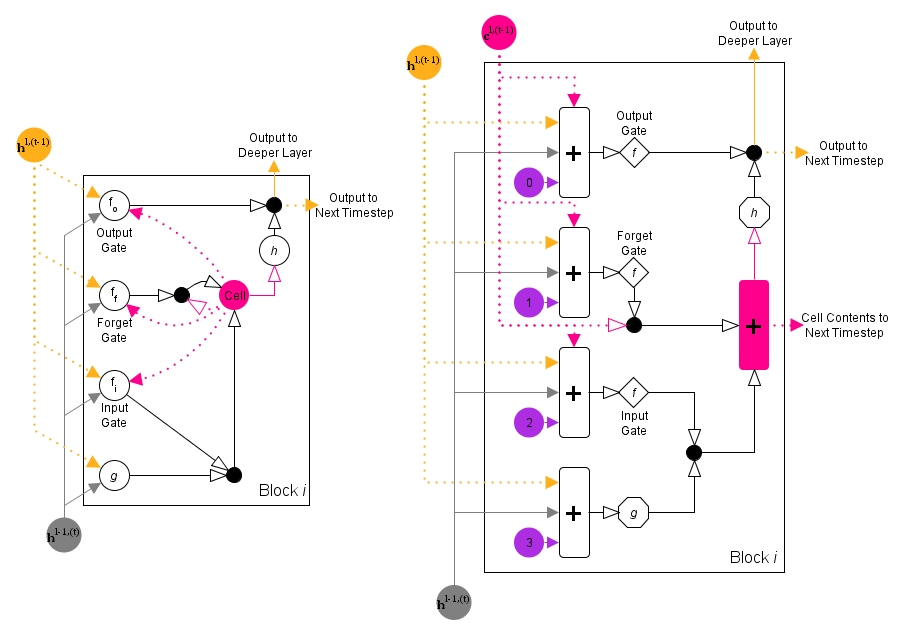
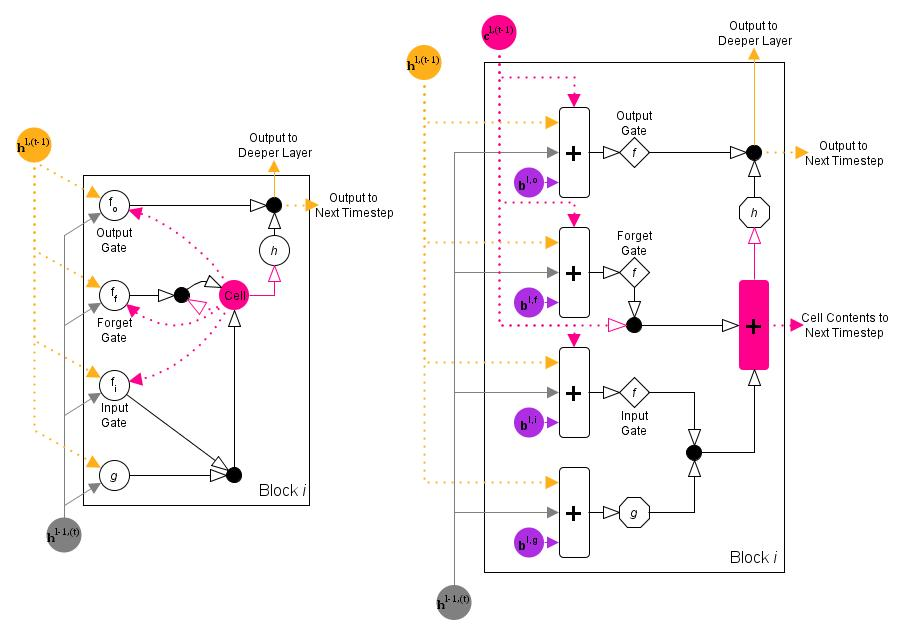
Tidied up typos

diff --git a/RNN/AlternativeNeurons.html b/RNN/AlternativeNeurons.html
@@ -26,7 +26,7 @@
             </p>
             <figure>
                 <img src="../Images/RNN/FigureLegend.jpg">
-                <figcaption><b>Stuff Stuff Stuff Stuff.</b></figcaption>
+                <figcaption><b>Legend for RNN Figures with Non-standard Recurrent Activation Functions.</b></figcaption>
             </figure>
         </section>
         <section>
@@ -111,13 +111,13 @@
                         \mathbf{f}^{l,(t)} & = f_f(W^{l,f} \mathbf{h}^{l-1,(t)} + R^{l,f} \mathbf{h}^{l,(t-1)} +
                             P^{l,f} \mathbf{c}^{l,(t-1)} + \mathbf{b}^f) \label{forgetOut} \\
                         \mathbf{c}^{l,(t)} & = \mathbf{f}^{l,(t)} \mathbf{c}^{l,(t-1)} +
-                            \mathbf{i}^{l,(t)} g(W^{l,g} \mathbf{h}^{l-1,(t)} + R^{l,g} \mathbf{h}^{l,(t-1)} + \mathbf{b}^c) \label{cellOut} \\
+                            \mathbf{i}^{l,(t)} g(W^{l,g} \mathbf{h}^{l-1,(t)} + R^{l,g} \mathbf{h}^{l,(t-1)} + \mathbf{b}^g) \label{cellOut} \\
                         \mathbf{o}^{l,(t)} & = f_o(W^{l,o} \mathbf{h}^{l-1,(t)} + R^{l,o} \mathbf{h}^{l,(t-1)} +
                             P^{l,o} \mathbf{c}^{l,(t-1)} + \mathbf{b}^o) \label{outputOut} \\
                         \mathbf{h}^{l,(t)} & = \mathbf{o}^{l,(t)} h(\mathbf{c}^{l,(t)}) \label{blockOut} \\
                     \end{align}
                 $$
-                The $P$ matrix is forced to be diagonal in order to ensure that the memory cell in block $i$ is not
+                The $P$ matrices are forced to be diagonal in order to ensure that the memory cell in block $i$ is not
                 influenced by the value of any other cell. The states of the memory cell in each of the $n$ LSTM blocks
                 in the layer can then be represented by a vector, which when multiplied by the appropriate diagonal
                 $P$ matrix gives the desired vector of memory states times their peephole weights.
